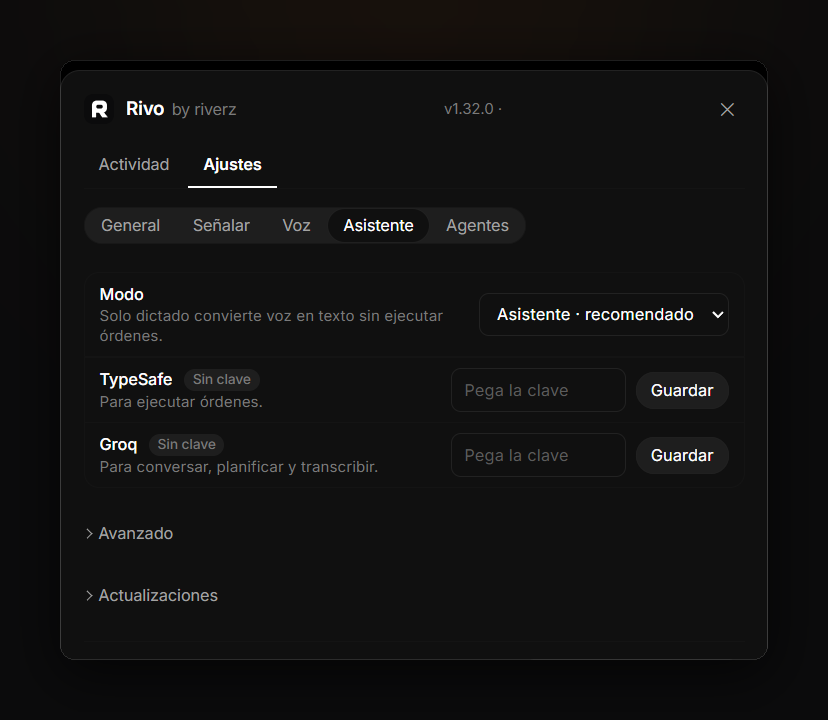
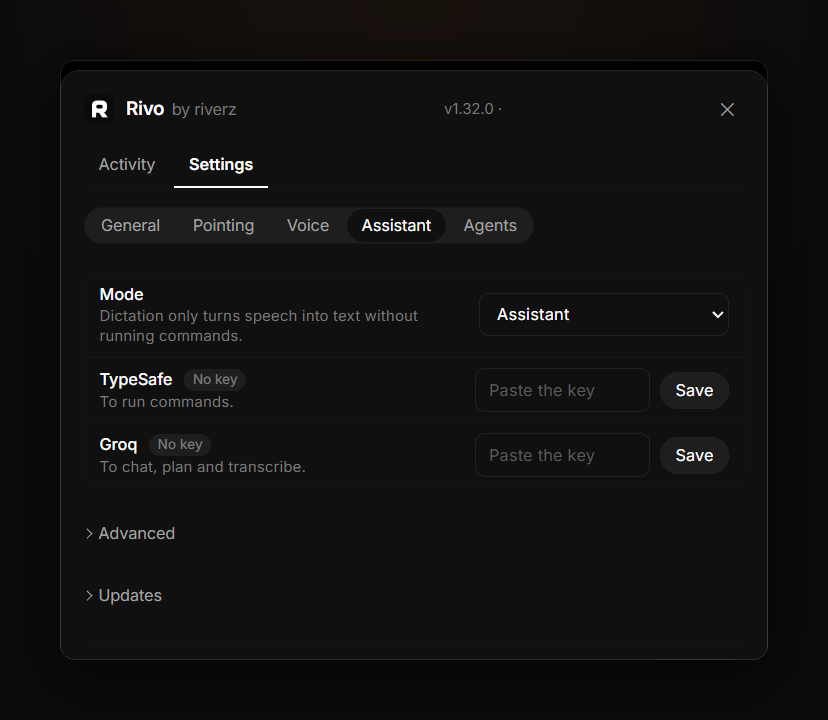
README images in English: Rivo over a sample dashboard, English tray, captions and settings

diff --git a/README.md b/README.md
@@ -19,7 +19,7 @@ Free · Windows 10 and 11 · No account, no keys
 <br>
 
 <p align="center">
-  <img src="assets/rivo-hero.png" alt="Rivo open over a web page: the price is circled in orange and the tray at the top shows three captures, each with what was said and what the stroke surrounds" width="100%">
+  <img src="assets/rivo-hero.png" alt="Rivo open over a sales dashboard: the refunds number is circled in orange and the tray at the top shows three captures, each with what was said and what the stroke surrounds" width="100%">
 </p>
 
 ## How it works
@@ -30,7 +30,7 @@ Free · Windows 10 and 11 · No account, no keys
 
 ## Every card explains itself
 
-Rivo tells your agent what your stroke means, not just where it is. Each card carries what you said and a sentence like *"a circle around 'Descargar para Windows'"* or *"an arrow from 'Revenue' down to 'Recent Activity'"*. The text comes from Windows accessibility first and from on-device OCR when an app doesn't expose it.
+Rivo tells your agent what your stroke means, not just where it is. Each card carries what you said and a sentence like *"a circle around 'Upgrade plan'"* or *"an arrow from 'Revenue' down to 'Recent Activity'"*. The text comes from Windows accessibility first and from on-device OCR when an app doesn't expose it.
 
 <p align="center">
   <img src="assets/rivo-tray.png" alt="The Rivo tray with three cards and the Copy all button" width="640">
@@ -41,7 +41,7 @@ Rivo tells your agent what your stroke means, not just where it is. Each card ca
 **Copy all** puts every capture on the clipboard as a picture with its caption on top, plus a text version that names each image file, so it also works in a terminal.
 
 <p align="center">
-  <img src="assets/rivo-paste.png" alt="Three pasted captures, each captioned with what was said and the gesture: a circle around 'Tu agente ya tiene el código.', a circle around 'Descargar para Windows', a circle around 'para siempre'" width="100%">
+  <img src="assets/rivo-paste.png" alt="Three pasted captures, each captioned with what was said and the gesture: a circle around '$48,290', a circle around 'Upgrade plan', a circle around '$1,940 +21% vs last month'" width="100%">
 </p>
 
 ## Built for coding agents
@@ -63,14 +63,13 @@ Notes and dictation are transcribed on your computer, without internet. What you
 </p>
 
 <details>
-<summary><b>More: assistant mode and first run</b></summary>
+<summary><b>More: assistant mode</b></summary>
 <br>
 
 With your own TypeSafe and Groq keys, Rivo also becomes a voice assistant that carries out actions on your PC. It's optional; pointing, voice notes and agents work without it.
 
 <p align="center">
   <img src="assets/rivo-settings-asistente.png" alt="Assistant settings: mode and optional provider keys" width="380">
-  <img src="assets/rivo-first-run.png" alt="First run: choose the pointing shortcut" width="380">
 </p>
 
 </details>
@@ -80,11 +79,11 @@ With your own TypeSafe and Groq keys, Rivo also becomes a voice assistant that c
 1. Download **[Rivo-Setup.exe](https://github.com/excelenciaempire/rivo-releases/releases/latest/download/Rivo-Setup.exe)** and run it.
 2. Press **Ctrl three times** anywhere to start pointing.
 
-Rivo updates itself from this repository. Every version and its notes are on the [releases page](https://github.com/excelenciaempire/rivo-releases/releases). The interface is in Spanish; Rivo listens and answers in your language.
+Rivo updates itself from this repository. Every version and its notes are on the [releases page](https://github.com/excelenciaempire/rivo-releases/releases). Rivo listens and answers in your language.
 
 ## About these images
 
-Taken from Rivo 1.32.0 on a real web page ([riverzai.com/rivo](https://riverzai.com/rivo)). The ink, the tray, the captions and the gesture sentences were drawn by Rivo's own code; the settings windows are the app's real interface with test settings, so no personal data appears. More detail in [FEATURES.md](FEATURES.md) and [ENGINEERING.md](ENGINEERING.md).
+Made with Rivo 1.32.0 over a sample dashboard. The ink, the tray, the captions and the gesture sentences were drawn by Rivo's own code; the settings windows are the app's real interface with test settings, so no personal data appears. The app's menus are in Spanish today; the images show them in English. More detail in [FEATURES.md](FEATURES.md) and [ENGINEERING.md](ENGINEERING.md).
 
 ## About the project
 

diff --git a/FEATURES.md b/FEATURES.md
@@ -6,7 +6,7 @@
 
 | Gesture | What the card says (example) |
 | --- | --- |
-| Circle or box | *a circle around 'Descargar para Windows'* |
+| Circle or box | *a circle around 'Upgrade plan'* |
 | Underline | *underlining 'Total'* |
 | Arrow or line | *an arrow from 'Revenue' down to 'Recent Activity'* |
 | Scribble | *a scribble over 'Draft'* |
